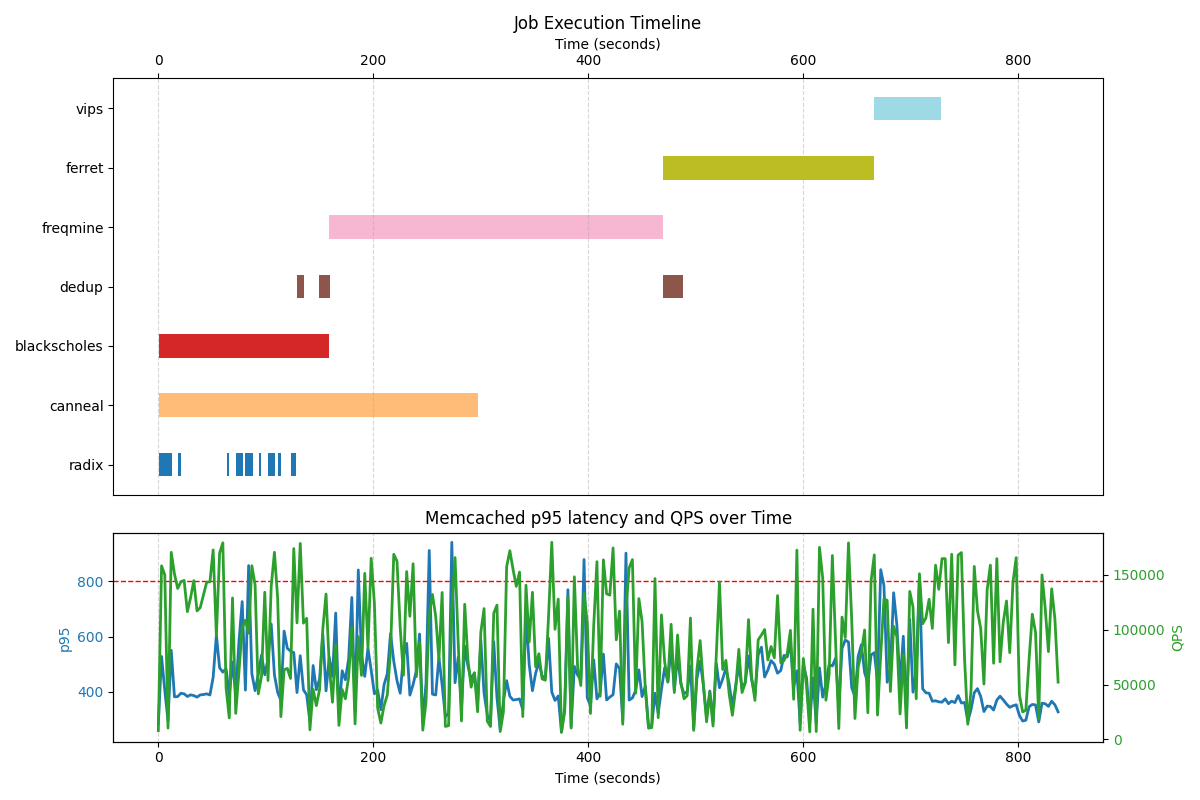
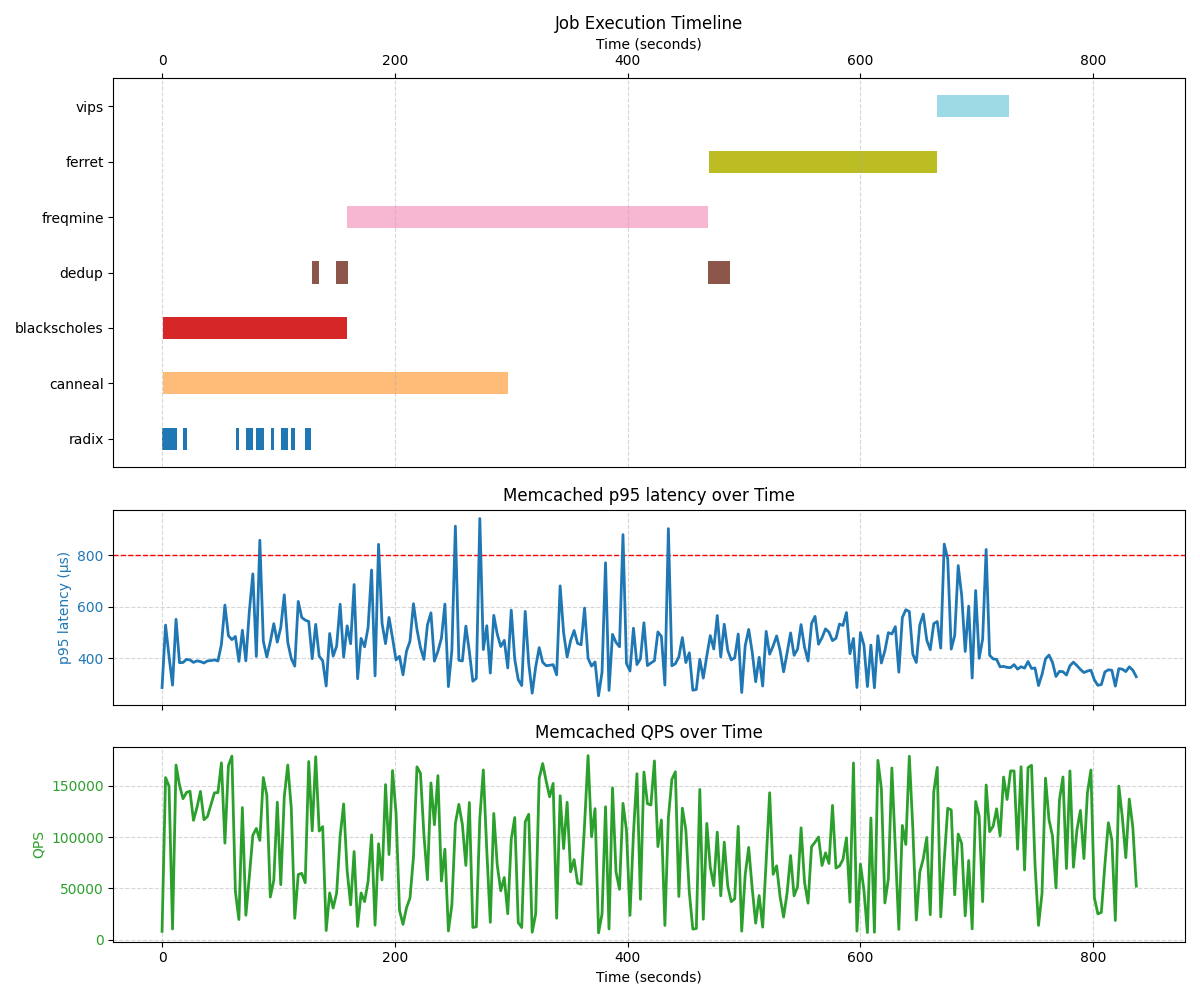
better plots

diff --git a/part4/plot_4_4_A.py b/part4/plot_4_4_A.py
@@ -9,13 +9,11 @@ def plot_job_log_file(ax, log_file):
     with open(log_file, "r") as f:
         lines = f.readlines()
 
-    job_states = defaultdict(list)   # job -> list of (start_time, end_time)
-    job_status = {}                  # job -> (status, start_time)
-    job_first_start_time = {}        # job -> first start time
-
+    job_states = defaultdict(list)
+    job_status = {}
+    job_first_start_time = {}
     time_format = "%Y-%m-%dT%H:%M:%S.%f"
 
-    # Parse timestamps to find T0
     timestamps = []
     for line in lines:
         if line.strip():
@@ -23,12 +21,10 @@ def plot_job_log_file(ax, log_file):
             timestamps.append(datetime.strptime(ts_str, time_format))
     T0 = min(timestamps)
 
-    # Process log entries
     for line in lines:
         line = line.strip()
         if not line:
             continue
-
         timestamp_str, rest = line.split(" ", 1)
         timestamp = datetime.strptime(timestamp_str, time_format)
         t_sec = (timestamp - T0).total_seconds()
@@ -40,18 +36,15 @@ def plot_job_log_file(ax, log_file):
             job_status[job] = ("running", t_sec)
             if job not in job_first_start_time:
                 job_first_start_time[job] = t_sec
-
         elif rest.startswith("pause"):
             job = rest.split()[1]
             if job in job_status and job_status[job][0] == "running":
                 start_sec = job_status[job][1]
                 job_states[job].append((start_sec, t_sec))
                 job_status[job] = ("paused", None)
-
         elif rest.startswith("unpause"):
             job = rest.split()[1]
             job_status[job] = ("running", t_sec)
-
         elif rest.startswith("end"):
             job = rest.split()[1]
             if job == "scheduler" or job == "memcached":
@@ -61,17 +54,12 @@ def plot_job_log_file(ax, log_file):
                 job_states[job].append((start_sec, t_sec))
             job_status.pop(job, None)
 
-    # Sort jobs by first start time
     sorted_jobs = sorted(job_first_start_time.keys(), key=lambda j: job_first_start_time[j])[1:]
-
-    # Assign a consistent color for each job
     colormap = cm.get_cmap('tab20', len(sorted_jobs))
     job_colors = {job: colormap(i) for i, job in enumerate(sorted_jobs)}
 
-    # Plot
     yticks = []
     yticklabels = []
-
     for i, job in enumerate(sorted_jobs):
         color = job_colors[job]
         for start, end in job_states[job]:
@@ -83,44 +71,45 @@ def plot_job_log_file(ax, log_file):
     ax.set_yticklabels(yticklabels)
     ax.set_xlabel("Time (seconds)")
     ax.set_title("Job Execution Timeline")
-    
     ax.grid(True, which='both', axis='x', linestyle='--', alpha=0.5)
     ax.xaxis.set_ticks_position('top')
     ax.xaxis.set_label_position('top')
     ax.tick_params(axis='x', which='both', bottom=False, top=True, labeltop=True, labelbottom=False)
 
-
-def plot_mcperf_combined(ax, log_file):
+def plot_mcperf_split(ax_p95, ax_qps, log_file):
     df = pd.read_csv(log_file, sep=r'\s+', header=2)
     df['Timestamp'] = df.index * 3
 
-    # Left axis: p95 latency
-    ax.axhline(y=800, color='r', linestyle='--', linewidth=1)
-    ax.plot(df['Timestamp'], df['p95'], color='tab:blue', label='p95', linewidth=2)
-    ax.set_ylabel('p95', color='tab:blue')
-    ax.tick_params(axis='y', labelcolor='tab:blue')
-    ax.set_xlabel('Time (seconds)')
-    ax.grid(True, which='both', axis='x', linestyle='--', alpha=0.5)
-    ax.set_title('Memcached p95 latency and QPS over Time')
+    # P95
+    ax_p95.axhline(y=800, color='r', linestyle='--', linewidth=1)
+    ax_p95.plot(df['Timestamp'], df['p95'], color='tab:blue', linewidth=2)
+    ax_p95.set_ylabel('p95 latency (μs)', color='tab:blue')
+    ax_p95.set_title('Memcached p95 latency over Time')
+    ax_p95.tick_params(axis='y', labelcolor='tab:blue')
+    ax_p95.grid(True, linestyle='--', alpha=0.5)
 
-    # Right axis: QPS
-    ax_twin = ax.twinx()
-    ax_twin.plot(df['Timestamp'], df['QPS'], color='tab:green', label='QPS', linewidth=2)
-    ax_twin.set_ylabel('QPS', color='tab:green')
-    ax_twin.tick_params(axis='y', labelcolor='tab:green')
+    # QPS
+    ax_qps.plot(df['Timestamp'], df['QPS'], color='tab:green', linewidth=2)
+    ax_qps.set_ylabel('QPS', color='tab:green')
+    ax_qps.set_xlabel('Time (seconds)')
+    ax_qps.set_title('Memcached QPS over Time')
+    ax_qps.tick_params(axis='y', labelcolor='tab:green')
+    ax_qps.grid(True, linestyle='--', alpha=0.5)
 
 if __name__ == "__main__":
-
     job_logs = ["task4_outfiles_3s/jobs_1.txt", "task4_outfiles_3s/jobs_2.txt", "task4_outfiles_3s/jobs_3.txt"]
     mcperf_logs = ["task4_outfiles_3s/mcperf_1.txt", "task4_outfiles_3s/mcperf_2.txt", "task4_outfiles_3s/mcperf_3.txt"]
 
+    os.makedirs("part4_4", exist_ok=True)
+
     for idx, log_file in enumerate(job_logs):
-        fig, (ax_top, ax_bottom) = plt.subplots(
-            nrows=2, ncols=1, figsize=(12, 8), sharex=True, gridspec_kw={'height_ratios': [2, 1]})
+        fig, (ax_top, ax_mid, ax_bottom) = plt.subplots(
+            nrows=3, ncols=1, figsize=(12, 10), sharex=True,
+            gridspec_kw={'height_ratios': [2, 1, 1]}
+        )
 
         plot_job_log_file(ax_top, log_file)
-        plot_mcperf_combined(ax_bottom, mcperf_logs[idx])
+        plot_mcperf_split(ax_mid, ax_bottom, mcperf_logs[idx])
 
         plt.tight_layout()
-        os.makedirs("part4_4", exist_ok=True)
         plt.savefig(f"part4_4/plot_A{idx+1}.png")

diff --git a/part4/plot_4_3_A.py b/part4/plot_4_3_A.py
@@ -82,42 +82,43 @@ def plot_job_log_file(ax, log_file):
     ax.set_yticklabels(yticklabels)
     ax.set_xlabel("Time (seconds)")
     ax.set_title("Job Execution Timeline")
-    
+
     ax.grid(True, which='both', axis='x', linestyle='--', alpha=0.5)
     ax.xaxis.set_ticks_position('top')
     ax.xaxis.set_label_position('top')
     ax.tick_params(axis='x', which='both', bottom=False, top=True, labeltop=True, labelbottom=False)
 
-def plot_mcperf_p95_qps(ax, log_file):
+def plot_mcperf_p95_qps(ax_p95, ax_qps, log_file):
     df = pd.read_csv(log_file, sep=r'\s+', header=2)
     df['Timestamp'] = df.index * 10
 
-    # Left y-axis: p95
-    ax.axhline(y=800, color='r', linestyle='--', linewidth=1)
-    ax.plot(df['Timestamp'], df['p95'], color='tab:blue', label='p95', linewidth=2)
-    ax.set_ylabel('p95', color='tab:blue')
-    ax.tick_params(axis='y', labelcolor='tab:blue')
+    # P95 latency
+    ax_p95.axhline(y=800, color='r', linestyle='--', linewidth=1)
+    ax_p95.plot(df['Timestamp'], df['p95'], color='tab:blue', label='p95', linewidth=2)
+    ax_p95.set_ylabel('p95 latency (μs)', color='tab:blue')
+    ax_p95.tick_params(axis='y', labelcolor='tab:blue')
+    ax_p95.set_title('Memcached p95 latency over Time')
+    ax_p95.grid(True, linestyle='--', alpha=0.5)
 
-    # Right y-axis: QPS
-    ax_twin = ax.twinx()
-    ax_twin.plot(df['Timestamp'], df['QPS'], color='tab:green', label='QPS', linewidth=2)
-    ax_twin.set_ylabel('QPS', color='tab:green')
-    ax_twin.tick_params(axis='y', labelcolor='tab:green')
-
-    ax.set_xlabel('Time (seconds)')
-    ax.grid(True, which='both', axis='x', linestyle='--', alpha=0.5)
-    ax.set_title('Memcached p95 latency and QPS over Time')
+    # QPS
+    ax_qps.plot(df['Timestamp'], df['QPS'], color='tab:green', label='QPS', linewidth=2)
+    ax_qps.set_ylabel('QPS', color='tab:green')
+    ax_qps.set_xlabel('Time (seconds)')
+    ax_qps.tick_params(axis='y', labelcolor='tab:green')
+    ax_qps.set_title('Memcached QPS over Time')
+    ax_qps.grid(True, linestyle='--', alpha=0.5)
 
 if __name__ == "__main__":
-
     job_logs = ["task3_outfiles/jobs_1.txt", "task3_outfiles/jobs_2.txt", "task3_outfiles/jobs_3.txt"]
     mcperf_logs = ["task3_outfiles/mcperf_1.txt", "task3_outfiles/mcperf_2.txt", "task3_outfiles/mcperf_3.txt"]
+
     for idx, log_file in enumerate(job_logs):
-        fig, (ax_top, ax_bottom) = plt.subplots(
-            nrows=2, ncols=1, figsize=(12, 8), sharex=True, gridspec_kw={'height_ratios': [2, 1]})
+        fig, (ax_top, ax_mid, ax_bottom) = plt.subplots(
+            nrows=3, ncols=1, figsize=(12, 10), sharex=True,
+            gridspec_kw={'height_ratios': [2, 1, 1]})
 
         plot_job_log_file(ax_top, log_file)
-        plot_mcperf_p95_qps(ax_bottom, mcperf_logs[idx])
+        plot_mcperf_p95_qps(ax_mid, ax_bottom, mcperf_logs[idx])
 
         plt.tight_layout()
         plt.savefig(f"part4_3/plot_A{idx+1}.png")
